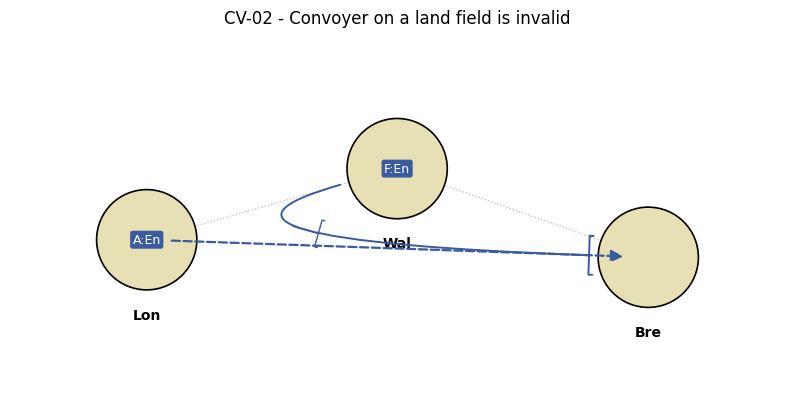
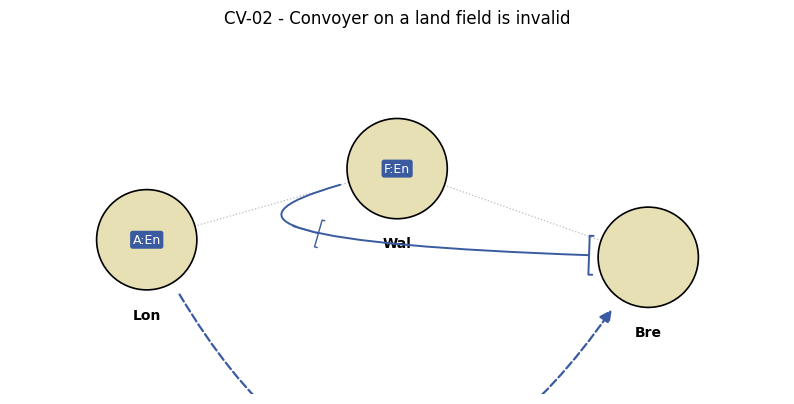
feat(dwex): layout-fill untangles edge crossings via node placement (edges stay straight); mve arrows route around on-line nodes

diff --git a/project/dipworkpy/tools/dwex/render_png.py b/project/dipworkpy/tools/dwex/render_png.py
@@ -5,7 +5,8 @@ from __future__ import annotations
 import hashlib
 import math
 from pathlib import Path
-from typing import Dict, Tuple
+from typing import Dict, List, Optional, Tuple
+
 import matplotlib
 import numpy as np
 
@@ -73,19 +74,63 @@ def _line_style(expected_failed: bool, expected_dislodged: bool = False) -> str:
 _DEFAULT_JITTER = 0.2
 
 
+def _cross(p1, p2, p3, p4) -> bool:
+    """True if segment p1-p2 properly crosses segment p3-p4 (touching and
+    collinear cases do not count)."""
+
+    def orient(a, b, c) -> float:
+        return float((b[0] - a[0]) * (c[1] - a[1]) - (b[1] - a[1]) * (c[0] - a[0]))
+
+    o1: float = orient(p1, p2, p3)
+    o2: float = orient(p1, p2, p4)
+    o3: float = orient(p3, p4, p1)
+    o4: float = orient(p3, p4, p2)
+    return bool(o1 * o2 < 0 and o3 * o4 < 0)
+
+
+def _move_creates_crossing(
+    pts: np.ndarray,
+    idx: Dict[str, int],
+    edges: List,
+    i: int,
+    cand: np.ndarray,
+) -> bool:
+    """Would moving node i to `cand` make any adjacency edge properly cross
+    another one? Only edges incident to i can start crossing, so only those
+    are tested against all others (edges sharing an endpoint are excluded —
+    they may touch at that node)."""
+    inc = [(e.a, e.b) for e in edges if idx.get(e.a) == i or idx.get(e.b) == i]
+    if not inc:
+        return False
+    old = pts[i].copy()
+    pts[i] = cand
+    try:
+        for a, b in inc:
+            p1, p2 = pts[idx[a]], pts[idx[b]]
+            for e2 in edges:
+                if e2.a in (a, b) or e2.b in (a, b):
+                    continue
+                q1, q2 = pts[idx[e2.a]], pts[idx[e2.b]]
+                if _cross(p1, p2, q1, q2):
+                    return True
+        return False
+    finally:
+        pts[i] = old
+
+
 def _fill_positions(doc: DwexDocument) -> Dict[str, Tuple[float, float]]:
-    """`layout-fill`: stretch + Lloyd relaxation so the nodes fill the whole
-    figure area evenly.
+    """`layout-fill`: stretch + CROSSING-GUARDED Lloyd relaxation.
 
     1. The document's coordinates are stretched anisotropically into the
        target box (figsize minus margin) — the map shape is the starting
        configuration.
     2. A bounded Lloyd relaxation (centroidal Voronoi, grid-approximated)
-       then moves every node toward the centroid of its Voronoi cell:
-       dense clusters spread into empty space while the cell adjacency —
-       and with it the map's topology — is preserved (small steps keep
-       cells from swapping). The result is an even, blue-noise-like
-       distribution with no empty regions.
+       moves every node toward the centroid of its Voronoi cell: dense
+       clusters spread into empty space. CONSTRAINT: moves are applied
+       greedily one node at a time, and a move that would make any
+       adjacency edge properly cross another one is dampened (1/2, 1/4,
+       1/8) or rejected — the layout can never introduce an edge crossing
+       that the source geometry does not have.
 
     Fully deterministic (no randomness). Degenerate axes (all nodes on one
     line) keep their single coordinate; <3 nodes skip the relaxation.
@@ -99,11 +144,18 @@ def _fill_positions(doc: DwexDocument) -> Dict[str, Tuple[float, float]]:
     sx = (width - 2 * margin) / (x1 - x0) if x1 > x0 else 1.0
     sy = (height - 2 * margin) / (y1 - y0) if y1 > y0 else 1.0
     names = [f.name for f in doc.fields]
+    idx = {n: i for i, n in enumerate(names)}
     pos = {n: (margin + (f.x - x0) * sx, margin + (f.y - y0) * sy) for n, f in zip(names, doc.fields)}
     if len(names) < 3:
         return pos
 
+    edges = [e for e in doc.edges if e.a in idx and e.b in idx]
     pts = np.array([pos[n] for n in names])
+    # visual contract: adjacency edges are always STRAIGHT, so crossings are
+    # resolved on the node side — untangle the stretched map first (the raw
+    # center coordinates are not a plane drawing), then relax with a guard
+    # that never introduces a new crossing.
+    _untangle(pts, idx, edges, (margin, margin, width - margin, height - margin))
     # coarse grid approximating the canvas area (Voronoi via nearest-node)
     gx, gy = np.meshgrid(
         np.linspace(margin, width - margin, 46),
@@ -123,10 +175,22 @@ def _fill_positions(doc: DwexDocument) -> Dict[str, Tuple[float, float]]:
         new = pts + (targets - pts) * 0.5
         new[:, 0] = np.clip(new[:, 0], margin, width - margin)
         new[:, 1] = np.clip(new[:, 1], margin, height - margin)
-        if float(np.abs(new - pts).max()) < 0.01:
-            pts = new
+        if float(np.abs(new - pts).max()) < 0.001:
             break
-        pts = new
+        # greedy crossing-guarded application: big moves first; each move
+        # is accepted only if it introduces no proper edge crossing
+        moved = False
+        for i in np.argsort(-np.abs(new - pts).sum(axis=1)):
+            i = int(i)
+            for step in (1.0, 0.5, 0.25, 0.125):
+                cand = pts[i] + (new[i] - pts[i]) * step
+                if not _move_creates_crossing(pts, idx, edges, i, cand):
+                    if step > 0 and float(np.abs(cand - pts[i]).max()) > 0.001:
+                        pts[i] = cand
+                        moved = True
+                    break
+        if not moved:
+            break
     return {n: (float(p[0]), float(p[1])) for n, p in zip(names, pts)}
 
 
@@ -195,6 +259,159 @@ def _midpoint_arrow(
     ax.add_patch(arrow)
 
 
+def _point_seg_dist(p, a, b) -> float:
+    """Distance from point p to the segment a-b."""
+    ax, ay = a
+    bx, by = b
+    dx, dy = bx - ax, by - ay
+    seg2 = dx * dx + dy * dy
+    if seg2 < 1e-12:
+        return math.hypot(p[0] - ax, p[1] - ay)
+    t = max(0.0, min(1.0, ((p[0] - ax) * dx + (p[1] - ay) * dy) / seg2))
+    cx, cy = ax + t * dx, ay + t * dy
+    return math.hypot(p[0] - cx, p[1] - cy)
+
+
+def _curve_clearance(p_start, p_via, p_end, pos, skip) -> float:
+    """Minimum distance from the quadratic Bezier (sampled) to any node."""
+    best = float("inf")
+    for t in (0.2, 0.35, 0.5, 0.65, 0.8):
+        x = (1 - t) ** 2 * p_start[0] + 2 * (1 - t) * t * p_via[0] + t**2 * p_end[0]
+        y = (1 - t) ** 2 * p_start[1] + 2 * (1 - t) * t * p_via[1] + t**2 * p_end[1]
+        for name, (nx, ny) in pos.items():
+            if name in skip:
+                continue
+            best = min(best, math.hypot(x - nx, y - ny))
+    return best
+
+
+def _route_around(
+    p1: Tuple[float, float],
+    p2: Tuple[float, float],
+    pos: Dict[str, Tuple[float, float]],
+    skip: set,
+    clearance: float,
+) -> Optional[Tuple[float, float]]:
+    """Bezier control point that routes the p1->p2 connection around any
+    node circle sitting on the straight segment. Returns None when the
+    straight line is already free. The side with the better clearance wins;
+    ties resolve deterministically."""
+    blockers = [name for name in pos if name not in skip and _point_seg_dist(pos[name], p1, p2) < clearance]
+    if not blockers:
+        return None
+    mx, my = (p1[0] + p2[0]) / 2.0, (p1[1] + p2[1]) / 2.0
+    dx, dy = p2[0] - p1[0], p2[1] - p1[1]
+    length = math.hypot(dx, dy) or 1.0
+    nx, ny = -dy / length, dx / length
+    bulge = clearance + 0.45
+    best_clear, best_ctrl = -1.0, None
+    for side in (1.0, -1.0):
+        ctrl = (mx + nx * side * 2.0 * bulge, my + ny * side * 2.0 * bulge)
+        c = _curve_clearance(p1, ctrl, p2, pos, skip)
+        if c > best_clear:
+            best_clear, best_ctrl = c, ctrl
+    return best_ctrl
+
+
+def _crossing_pairs(pts: np.ndarray, idx: Dict[str, int], edges: List) -> List:
+    """All properly crossing adjacency-edge pairs (straight segments)."""
+    pairs: List = []
+    for i, e1 in enumerate(edges):
+        if e1.a not in idx or e1.b not in idx:
+            continue
+        p1, p2 = pts[idx[e1.a]], pts[idx[e1.b]]
+        for e2 in edges[i + 1 :]:
+            if e2.a not in idx or e2.b not in idx:
+                continue
+            if e1.a in (e2.a, e2.b) or e1.b in (e2.a, e2.b):
+                continue
+            q1, q2 = pts[idx[e2.a]], pts[idx[e2.b]]
+            if _cross(p1, p2, q1, q2):
+                pairs.append((e1, e2))
+    return pairs
+
+
+def _reflect(p, q1, q2, damping: float) -> Tuple[float, float]:
+    """Reflect point p across the line q1-q2, moved only `damping` of the way."""
+    dx, dy = q2[0] - q1[0], q2[1] - q1[1]
+    seg2 = dx * dx + dy * dy
+    if seg2 < 1e-12:
+        return (p[0], p[1])
+    t = ((p[0] - q1[0]) * dx + (p[1] - q1[1]) * dy) / seg2
+    fx, fy = q1[0] + t * dx, q1[1] + t * dy
+    return (p[0] + (2 * fx - p[0] - p[0]) * damping, p[1] + (2 * fy - p[1] - p[1]) * damping)
+
+
+def _untangle(
+    pts: np.ndarray, idx: Dict[str, int], edges: List, box: Tuple[float, float, float, float], rounds: int = 30
+) -> None:
+    """Resolve edge crossings by moving NODES (edges stay straight, per the
+    visual contract: curved lines would read as support arrows).
+
+    For each crossing, the endpoint nearest the crossing is reflected across
+    the other edge's line (damped). Moves are accepted only when the total
+    crossing count decreases; otherwise they are reverted. Monotone in the
+    crossing count, so this terminates; for planar graphs it typically
+    reaches zero."""
+    x_lo, y_lo, x_hi, y_hi = box
+    for _ in range(rounds):
+        before = len(_crossing_pairs(pts, idx, edges))
+        if before == 0:
+            return
+        improved = False
+        for e1, e2 in _crossing_pairs(pts, idx, edges):
+            p1, p2 = pts[idx[e1.a]], pts[idx[e1.b]]
+            q1, q2 = pts[idx[e2.a]], pts[idx[e2.b]]
+            if not _cross(p1, p2, q1, q2):
+                continue  # stale entry from a later fix
+            # try every endpoint of both edges, reflected across the OTHER
+            # edge's line, with two dampings; keep the best strictly
+            # improving move (deterministic order)
+            candidates = [
+                (idx[e1.a], q1, q2),
+                (idx[e1.b], q1, q2),
+                (idx[e2.a], p1, p2),
+                (idx[e2.b], p1, p2),
+            ]
+            best: Tuple[int, np.ndarray, int] | None = None
+            for move_idx, line_a, line_b in candidates:
+                for damping in (1.0, 0.75):
+                    old = pts[move_idx].copy()
+                    cand = np.clip(_reflect(pts[move_idx], line_a, line_b, damping), [x_lo, y_lo], [x_hi, y_hi])
+                    pts[move_idx] = cand
+                    cnt = len(_crossing_pairs(pts, idx, edges))
+                    pts[move_idx] = old
+                    if cnt < before and (best is None or cnt < best[2]):
+                        best = (move_idx, cand, cnt)
+            if best is not None:
+                pts[best[0]] = best[1]
+                improved = True
+        if not improved:
+            # local minimum under single-endpoint reflections; try pairwise
+            # moves: reflect BOTH endpoints of one edge across the other
+            for e1, e2 in _crossing_pairs(pts, idx, edges):
+                p1, p2 = pts[idx[e1.a]], pts[idx[e1.b]]
+                q1, q2 = pts[idx[e2.a]], pts[idx[e2.b]]
+                if not _cross(p1, p2, q1, q2):
+                    continue
+                before = len(_crossing_pairs(pts, idx, edges))
+                for i1, i2, la, lb in (
+                    (idx[e1.a], idx[e1.b], q1, q2),
+                    (idx[e2.a], idx[e2.b], p1, p2),
+                ):
+                    old1, old2 = pts[i1].copy(), pts[i2].copy()
+                    pts[i1] = np.clip(_reflect(pts[i1], la, lb, 1.0), [x_lo, y_lo], [x_hi, y_hi])
+                    pts[i2] = np.clip(_reflect(pts[i2], la, lb, 1.0), [x_lo, y_lo], [x_hi, y_hi])
+                    if len(_crossing_pairs(pts, idx, edges)) < before:
+                        improved = True
+                        break
+                    pts[i1], pts[i2] = old1, old2
+                if improved:
+                    break
+            if not improved:
+                return
+
+
 def render_png(doc: DwexDocument, out: Path) -> None:
     fig, ax = plt.subplots(figsize=(10, 7), dpi=100)
     show_mid_arrows = "no-mid-arrows" not in doc.pragmas
@@ -215,8 +432,12 @@ def render_png(doc: DwexDocument, out: Path) -> None:
         for f in doc.fields:
             dx, dy = _jitter(f.name, amount=jit)
             pos[f.name] = (f.x + dx, f.y + dy)
+    radius = 0.22
 
-    # adjacency edges — subtle dotted light-gray; order arrows below carry the prominence
+    # adjacency edges — subtle dotted light-gray straight segments; order
+    # arrows below carry the prominence. NEVER curved (visual contract:
+    # curves read as support arrows); crossings are resolved by the layout
+    # (untangle + guarded relaxation), not by bending edges.
     for e in doc.edges:
         if e.a not in pos or e.b not in pos:
             continue
@@ -225,7 +446,6 @@ def render_png(doc: DwexDocument, out: Path) -> None:
         ax.plot([x1, x2], [y1, y2], color="#bbbbbb", linestyle=":", lw=0.9, zorder=1)
 
     # fields — drawn at the jittered positions stored in `pos`
-    radius = 0.22
     for f in doc.fields:
         x, y = pos[f.name]
         fc = FIELD_COLORS.get(f.type, "#FFFFFF")
@@ -471,8 +691,9 @@ def render_png(doc: DwexDocument, out: Path) -> None:
                     linestyle,
                     arrowstyle="-[",
                 )
-
-    # mve arrows — filled-triangle arrowhead identifies the order type
+    # mve arrows — filled-triangle arrowhead identifies the order type.
+    # Routed as a Bezier around any unrelated node that sits on the straight
+    # line (e.g. Mar->Spa through Gas after a layout-fill shift).
     for o in doc.orders:
         if o.order != "mve" or o.dest not in pos or o.current not in pos:
             continue
@@ -480,18 +701,40 @@ def render_png(doc: DwexDocument, out: Path) -> None:
         x2, y2 = pos[o.dest]
         color = _nation_color(o.nation)
         linestyle = _line_style(o.expected_failed, o.expected_dislodged)
-        arrow = FancyArrowPatch(
-            (x1, y1),
-            (x2, y2),
-            arrowstyle="-|>",
-            mutation_scale=18,
-            color=color,
-            linestyle=linestyle,
-            lw=1.6,
-            shrinkA=18,
-            shrinkB=18,
-            zorder=6,
-        )
+        ctrl = _route_around((x1, y1), (x2, y2), pos, {o.current, o.dest}, radius + 0.18)
+        if ctrl is not None:
+            pad_axis = radius + 0.06
+            t1x, t1y = ctrl[0] - x1, ctrl[1] - y1
+            t1len = math.hypot(t1x, t1y) or 1.0
+            start = (x1 + t1x / t1len * pad_axis, y1 + t1y / t1len * pad_axis)
+            t2x, t2y = x2 - ctrl[0], y2 - ctrl[1]
+            t2len = math.hypot(t2x, t2y) or 1.0
+            end = (x2 - t2x / t2len * pad_axis, y2 - t2y / t2len * pad_axis)
+            path = MplPath([start, ctrl, end], [MplPath.MOVETO, MplPath.CURVE3, MplPath.CURVE3])
+            arrow = FancyArrowPatch(
+                path=path,
+                arrowstyle="-|>",
+                mutation_scale=18,
+                color=color,
+                linestyle=linestyle,
+                lw=1.6,
+                shrinkA=0,
+                shrinkB=0,
+                zorder=6,
+            )
+        else:
+            arrow = FancyArrowPatch(
+                (x1, y1),
+                (x2, y2),
+                arrowstyle="-|>",
+                mutation_scale=18,
+                color=color,
+                linestyle=linestyle,
+                lw=1.6,
+                shrinkA=18,
+                shrinkB=18,
+                zorder=6,
+            )
         ax.add_patch(arrow)
 
     # title
